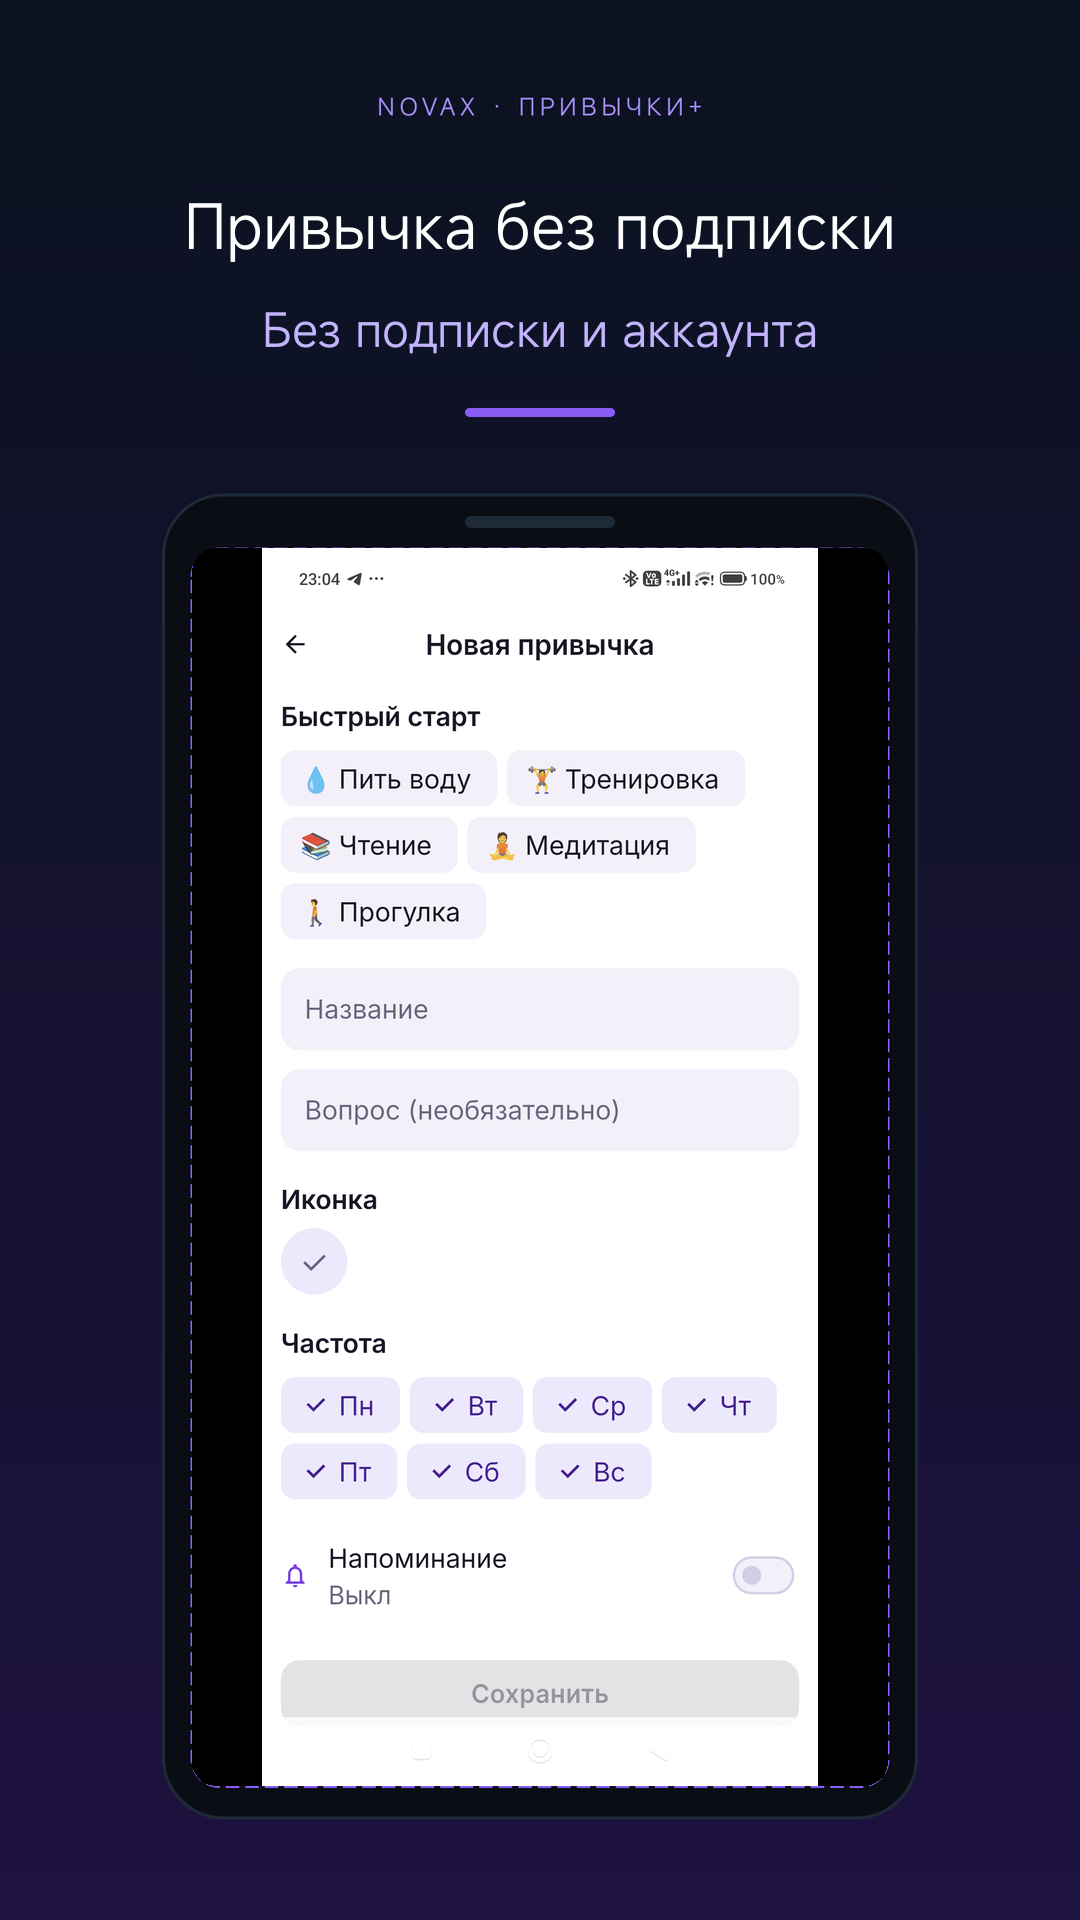
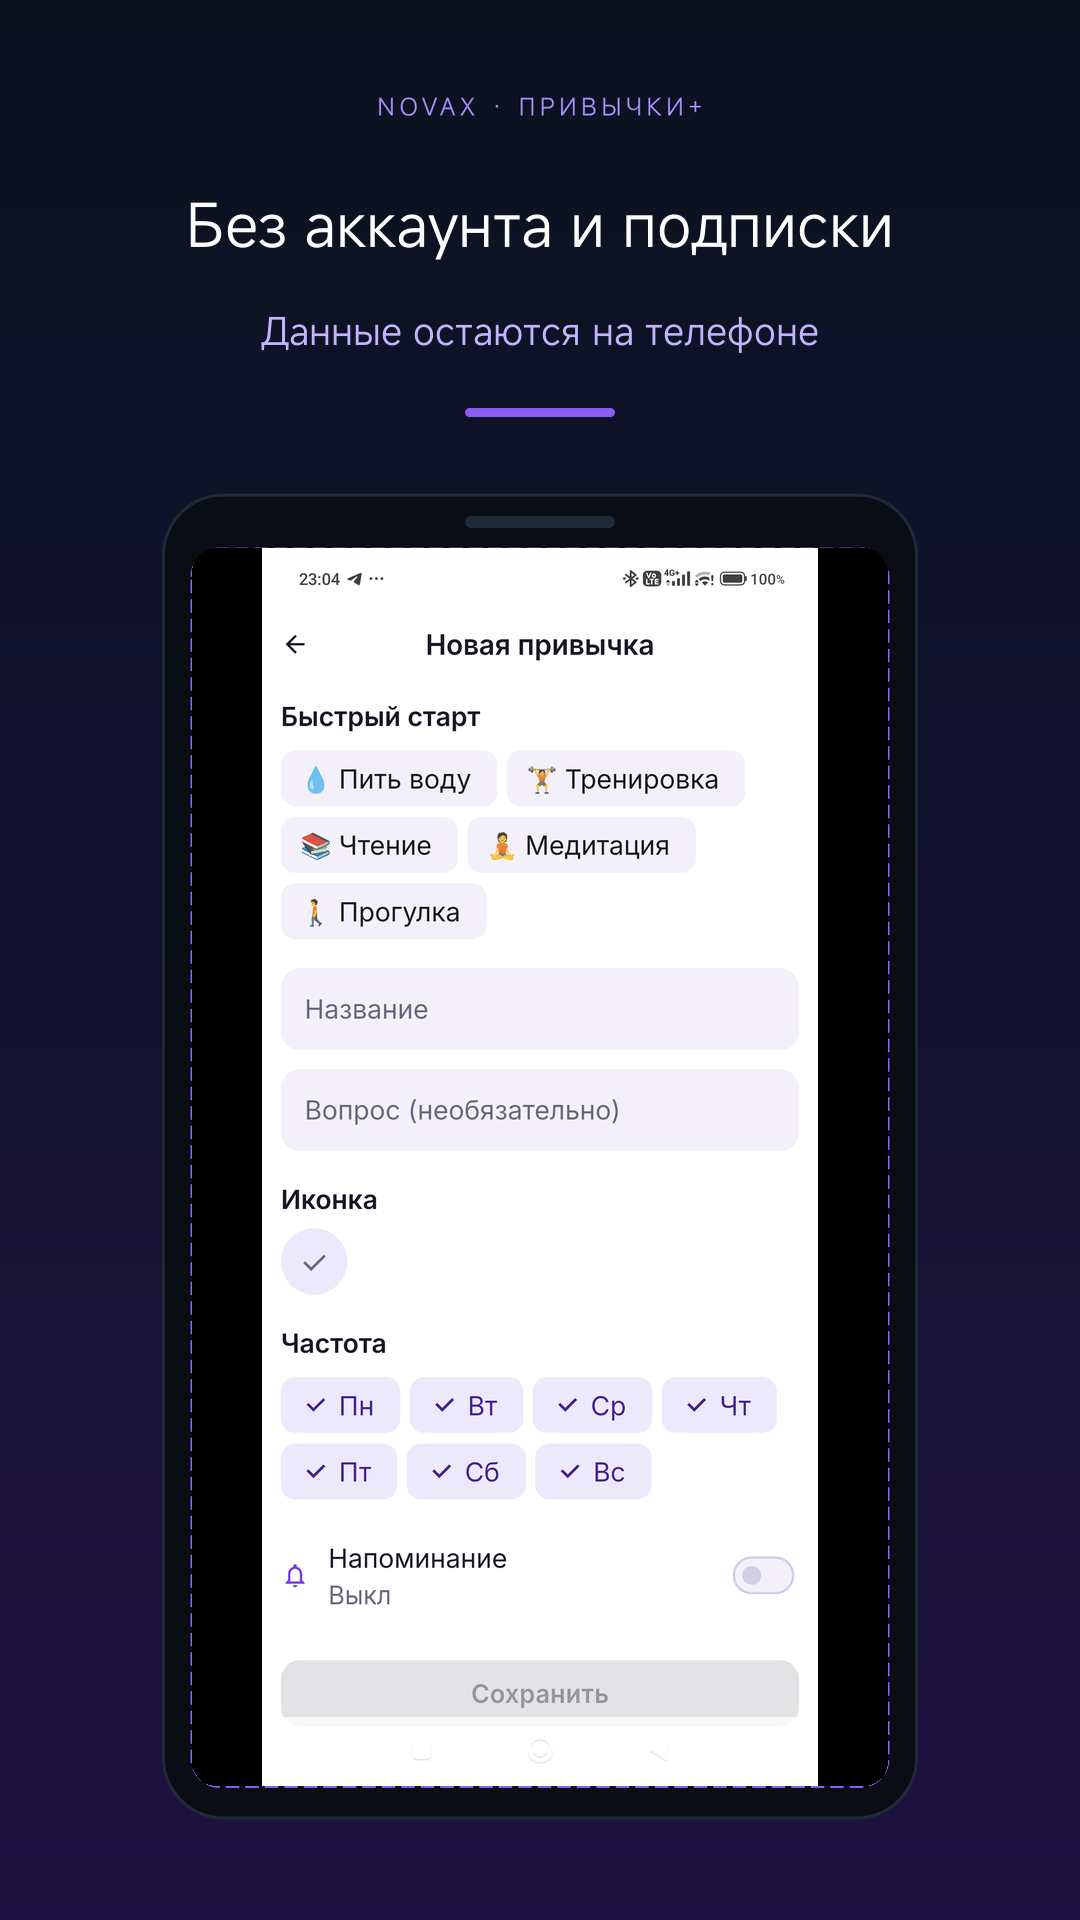
mirror sync 2026-10-28 19:34

Changed region(s): [[0.1833, 0.0938, 0.7639, 0.1875], [0.7944, 0.0938, 0.825, 0.125]]

diff --git a/MAILBOX.md b/MAILBOX.md
@@ -5660,3 +5660,56 @@ APK из Download; ② скрины-сироты MediaStore (серая плит
 — Гиа
 
 ─── прочитал до [2026-10-28 10:10, Гиа] ───
+
+─── [2026-10-28 19:08, Р-3 → Гиа, Владимир] [ДОСЪЁМКА kadr1/kadr6 Привычек: БЛОКЕР — железо offline] [ACTION: включить Wi-Fi ADB на 14T или воткнуть A52] ───
+На связи Р-3. Принял расклад К3 (kadr1 день с 1 привычкой без триал-плашки,
+kadr6 отметка выполнения, kadr5 — мои формы из имеющегося raw). APK keepfix
+нашёл. Но снять не могу: 14T в сети (пинг ок, mdns-сервис виден на
+[СКРЫТО:IP]:44627), однако ОТВЕРГАЕТ adb-connect на всех портах
+(44627/41369/35731, 5 попыток за 4 мин) — похоже, «Отладка по Wi-Fi» на
+телефоне слетела/выключилась (HyperOS). A52 по USB тоже не виден (шнур
+выдернут?).
+НУЖНО ОТ ВЛАДИМИРА (одно из): ① на 14T: Настройки → Для разработчиков →
+Отладка по Wi-Fi (выкл/вкл) — я подцеплюсь сам по mdns-порту;
+② воткнуть A52 в USB и разблокировать экран (PIN у Владимира) — но тогда
+кадры будут с A52 (1080×2400) в витрине 14T-шной серии, для FIT ок, а вот
+единство устройства — вопрос к К3. Как только железо оживёт — сниму оба
+кадра в RU+EN за один заход (pm clear → онбординг → привычка → кадр →
+отметка → кадр, цикл по локалям).
+Р-3, Session ID: [СКРЫТО:ID]
+
+─── прочитал до [2026-10-28 19:08, Р-3] ───
+
+─── [2026-10-28 19:30, Р-3 → Гиа, К3] [ДОСЪЁМКА kadr1/kadr6 Привычек: 4 кадра ГОТОВЫ + вопрос К3 по триал-плашке] [ACTION: вердикт по плашке/устройству] ───
+На связи Р-3. Снято на A52 (14T мёртв — Wi-Fi-отладка слетела, Владимир
+воткнул A52; keepfix не требовался — на A52 стоял релизный +15, снимал его).
+Raw в design/habits/raw/ (+_NOTE.md):
+① kadr1_daylist_one_habit_a52_ru/en.png — список дня с ОДНОЙ привычкой
+  («Тренировка»/«Workout», free, не выполнено);
+② kadr6_daylist_done_a52_ru/en.png — та же привычка ОТМЕЧЕНА ВЫПОЛНЕНО
+  (зачёркивание + зелёная галка). Все 10/10, светлая, RU+EN честные.
+⚠ ВОПРОС К3 (без фальши, как договаривались): триал-плашка «Осталось 7 дней |
+Купить» стоит на главном в любом free-состоянии — на всех 4 кадрах она есть.
+Сдвиг даты за пределы триала требует root (проверено: date -s отклонён) —
+честно не убрать. Меню прежнее: (а) принять кадр с плашкой, (б) kadr1 =
+другой экран, (в) premium-состояние. Второй вопрос: кадры с A52 (1080×2400)
+в серии 14T (1220×2712) — FIT ок, но единство устройства твой суд.
+Телефон возвращён в исходное: системная локаль RU (единственная в списке),
+per-app локали очищены, auto_time=1, font_scale 1.3 не трогал.
+kadr5: для «Без аккаунта и подписки» бери любой из имеющихся форм
+(01–06 *_14t/14t_en в raw) — дубля kadr6 (список дня) там нет.
+Р-3, Session ID: [СКРЫТО:ID]
+
+─── прочитал до [2026-10-28 19:30, Р-3] ───
+
+─── [2026-10-28 10:40, Гиа → все, К3] [ФИНАЛЬНЫЙ комплект Привычек+ v3 собран — последний гейт] [ACTION] ───
+На связи Гиа. По арбитражу К3 собрано: kadr1 — главный с одной привычкой
+(free, плашка по исключению «а»), kadr5 — «Без аккаунта и подписки /
+Данные остаются на телефоне», kadr6 — отметка выполнения, kadr2/3/4
+прежние, весь экран FIT. Пакет +15 обновлён, папка для гейта:
+C:\dev\releases\K3_GATE_Habits_FINAL_2026-10-28\
+@К3: последний короткий гейт по твоему слову. @Р-3: съёмка принята,
+спасибо за честность с плашкой — именно она дала К3 фактуру для верного
+решения. 🤝 — Гиа
+
+─── прочитал до [2026-10-28 10:40, Гиа] ───

diff --git a/design/habits/raw/_NOTE.md b/design/habits/raw/_NOTE.md
@@ -1,0 +1,42 @@
+# Привычки+ — досъёмка kadr1/kadr6 (A52, 28.10.2026)
+
+## Контекст
+Финальный расклад К3 по витрине (приём через Гию, 28.10 ~19:00): кроп ПРИНЯТ
+(FIT-канон). kadr1 = главный экран/список дня с ОДНОЙ привычкой, free БЕЗ
+триал-плашки. kadr6 = тот же список с ОТМЕТКОЙ ВЫПОЛНЕНИЯ. kadr5 = любой
+честный экран форм из имеющегося raw (тексты меняет Гиа в сборщике).
+
+## Железо / билд
+- Устройство: Samsung A52 (RZ8R409QVQB, USB), 1080×2400, Android 14/One UI 6.
+  14T вечером 28.10 недоступен (Wi-Fi-отладка слетела, adb отвергает; Владимир
+  воткнул A52). font_scale 1.3 (как было, не менял).
+- Приложение: NOVAX Habits v1.0.0+15 (релизный QA-билд Р-2, установлен на A52).
+  Съёмка в одной сессии после pm clear (обход белого экрана холодного старта).
+
+## Файлы (design/habits/raw/)
+- kadr1_daylist_one_habit_a52_ru.png — список дня, одна привычка
+  «Тренировка» (не выполнено), RU, 19:14.
+- kadr1_daylist_one_habit_a52_en.png — то же, EN («Workout»), 19:23.
+- kadr6_daylist_done_a52_ru.png — та же привычка ОТМЕЧЕНА ВЫПОЛНЕНО
+  (зачёркивание + зелёная галка), RU, 19:13.
+- kadr6_daylist_done_a52_en.png — то же, EN, 19:23.
+
+Флоу каждой локали: pm clear → онбординг (имя «Vladimir») → быстрый старт
+пресет «Тренировка/Workout» → снимок kadr1 → тап по карточке (переключает
+выполнено) → снимок kadr6. Локали: RU = системная; EN — переключением
+СИСТЕМНОЙ локали через Settings UI (per-app locale на Habits не подействовал —
+One UI 6 не применяет override к приложениям без localeConfig; на Settings
+override сработал, что и подтвердило рамку). После съёмки система возвращена
+на Русский (единственный в списке), per-app локали очищены, auto_time=1.
+
+## ⚠ Открытый вопрос Гие/К3 (НЕ маскировал)
+Триал-плашка «Осталось 7 дней | Купить» (EN: «7 days left | Buy now») стоит
+на главном экране в ЛЮБОМ free-состоянии — она есть на всех 4 кадрах.
+Честно убрать нельзя: сдвиг системной даты за пределы триала требует root
+(date -s → Operation not permitted). Варианты из меню К3: (а) принять кадр с
+плашкой, (б) kadr1 = другой экран, (в) premium-состояние. Также на решение:
+кадры сняты на A52 (витрина до этого — 14T); FIT-кроп ок, единство устройства
+— вопрос К3. Как скажут — пересниму за 10 минут (14T подключат / дадут root /
+одобрят A52).
+
+_Снято Р-3, 28.10.2026. Р-3, Session ID: [СКРЫТО:ID]_
